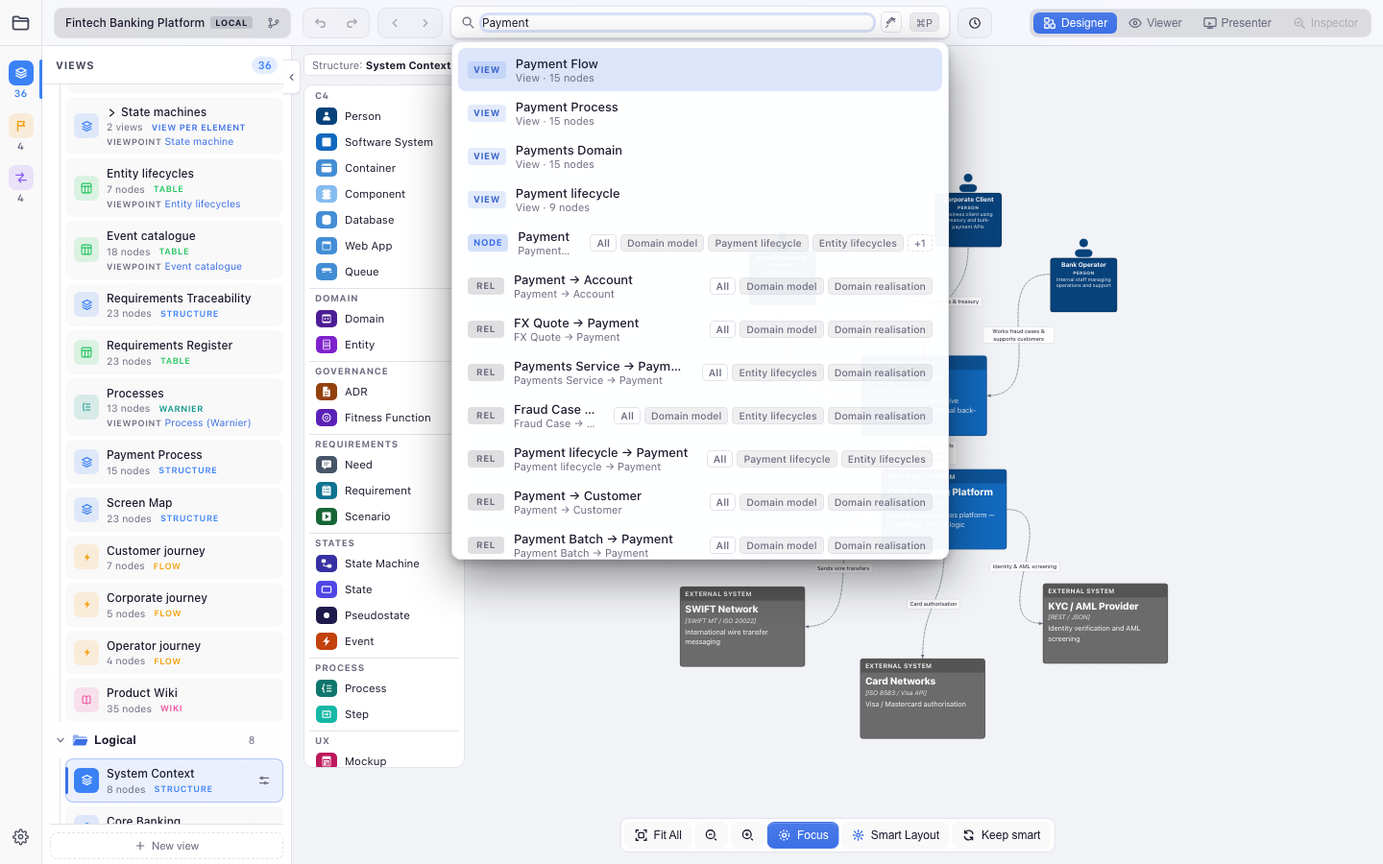
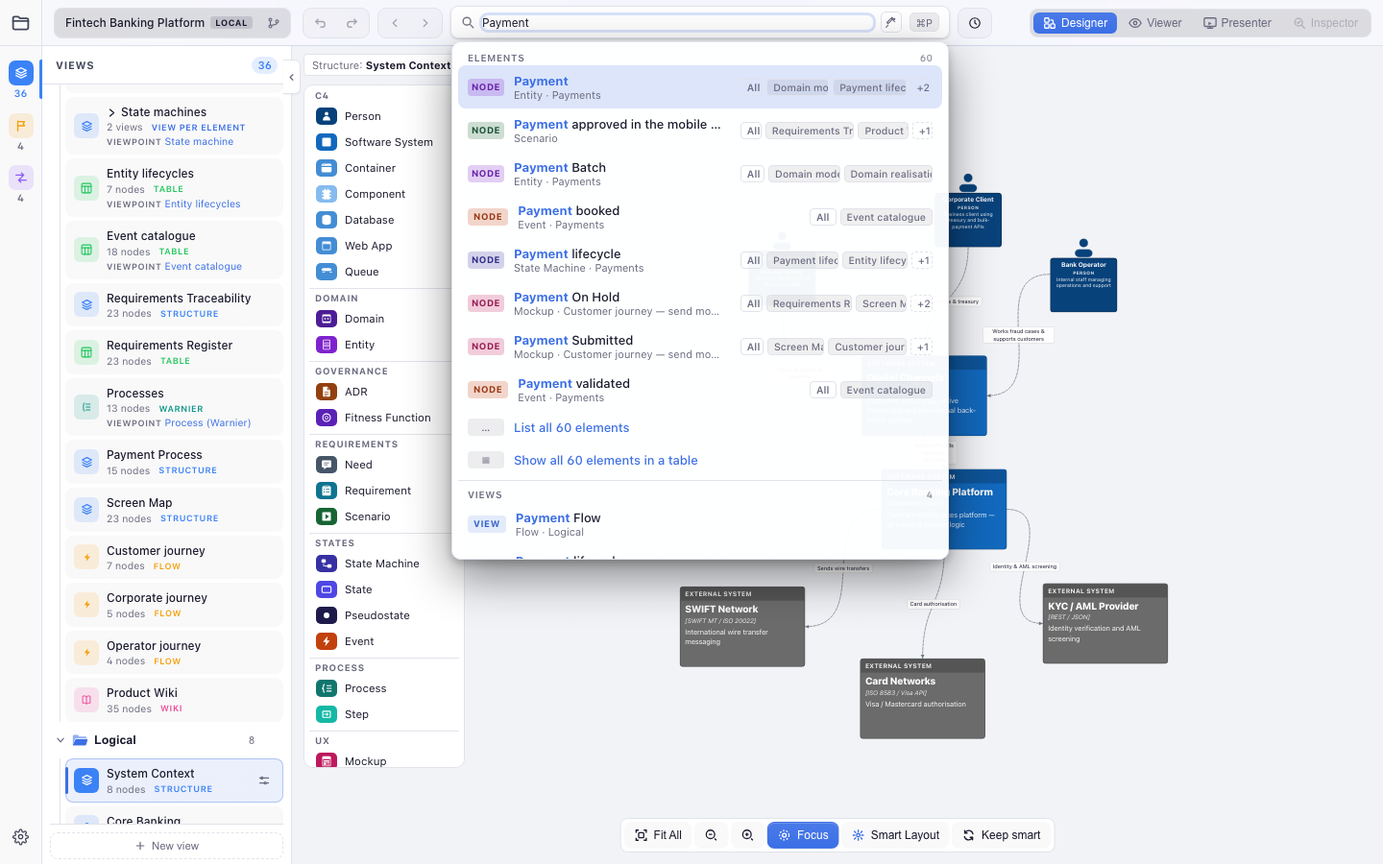
Docs: Quick Search sections and prefixes, find in the view, FIND; model texts as built

Changed region(s): [[0.3125, 0.0311, 0.6875, 0.6533], [0.5312, 0.1867, 0.6875, 0.2178], [0.5312, 0.6222, 0.6562, 0.6533]]

diff --git a/apps/web/reference.html b/apps/web/reference.html
@@ -414,7 +414,7 @@ radical-mcp --version</code></pre>
           <table class="doc-table">
             <thead><tr><th>Group</th><th>Tools</th></tr></thead>
             <tbody>
-              <tr><td><strong>Read</strong></td><td><code>get_model_summary</code> (counts, views, sequences, milestones, the modelling rules and the metamodel rules) · <code>get_issues</code> · <code>search_model</code> (<code>LIST NODES WHERE …</code>, <code>GET NEIGHBORS</code>, <code>LIST SEQUENCES</code>) · <code>get_selection</code> · <code>get_changes</code></td></tr>
+              <tr><td><strong>Read</strong></td><td><code>get_model_summary</code> (counts, views, sequences, milestones, the modelling rules and the metamodel rules) · <code>get_issues</code> · <code>search_model</code> (<code>FIND</code> with the words and prefixes of Quick Search, <code>LIST NODES WHERE …</code>, <code>GET NEIGHBORS</code>, <code>LIST SEQUENCES</code>) · <code>get_selection</code> · <code>get_changes</code></td></tr>
               <tr><td><strong>Elements &amp; relations</strong></td><td><code>add_node</code>, <code>update_node</code>, <code>delete_node</code>, <code>move_node</code> · <code>add_relation</code>, <code>update_relation</code>, <code>delete_relation</code></td></tr>
               <tr><td><strong>Views</strong></td><td><code>create_view</code>, <code>update_view</code>, <code>set_view_nodes</code>, <code>order_views</code>, <code>delete_view</code> · <code>smart_layout</code> · <code>align_nodes</code>, <code>grid_nodes</code>, <code>remove_alignment</code></td></tr>
               <tr><td><strong>Sequences &amp; slides</strong></td><td><code>create_sequence</code>, <code>update_sequence</code>, <code>delete_sequence</code> · <code>create_presentation</code>, <code>update_presentation</code>, <code>delete_presentation</code> (a slide shows a view or zooms onto elements with <code>focus</code>, from the model or a milestone)</td></tr>
@@ -500,14 +500,34 @@ radical-mcp --version</code></pre>
         <p>File and folder paths open only in the desktop app; in the browser a folder is identified by its id, so its links work in the browser that opened it. The Hub uses <code>#/browse</code> for the catalogue and <code>#/c/&lt;conceptId&gt;/v/canvas|wiki|table</code> for one pack; <code>studio.radical.tools/?hub=id1,id2</code> opens Studio with those packs queued for import.</p>
       </section>
 
+      <section class="doc-section" id="search">
+        <h2>Search prefixes</h2>
+        <p>Quick Search (<kbd>⌘/Ctrl+P</kbd>), the find bar (<kbd>⌘/Ctrl+F</kbd>) and the query language's <code>FIND</code> read the same words. Every word must match, in any order, without case or accents.</p>
+        <div class="doc-table-wrap">
+          <table class="doc-table">
+            <thead><tr><th>Typed</th><th>Finds</th></tr></thead>
+            <tbody>
+              <tr><td><code>v:</code> <code>f:</code> <code>e:</code> <code>r:</code></td><td>Only views, view folders, elements, relations</td></tr>
+              <tr><td><code>s:</code> <code>p:</code> <code>m:</code></td><td>Only sequences, presentations and their slides, milestones</td></tr>
+              <tr><td><code>@</code></td><td>The elements and relations of the view shown</td></tr>
+              <tr><td><code>in:Name</code> · <code>in:"Two words"</code></td><td>The elements and relations of a view, by its name or the start of it</td></tr>
+              <tr><td><code>type:adr</code> · <code>t:container</code></td><td>Elements of a type, by its id or name</td></tr>
+              <tr><td><code>status:accepted</code></td><td>Elements whose property (by key or name) holds the value</td></tr>
+              <tr><td><code>&gt;</code> first</td><td>Commands, in Quick Search only</td></tr>
+            </tbody>
+          </table>
+        </div>
+      </section>
+
       <section class="doc-section" id="shortcuts">
         <h2>Keyboard shortcuts</h2>
         <div class="doc-table-wrap">
           <table class="doc-table">
             <thead><tr><th>Keys</th><th>Action</th></tr></thead>
             <tbody>
-              <tr><td><kbd>⌘/Ctrl+P</kbd></td><td>Quick Search (and AI prompt)</td></tr>
-              <tr><td><kbd>Tab</kbd> / <kbd>⌘/Ctrl+Enter</kbd></td><td>In Quick Search: switch to AI mode / send to AI</td></tr>
+              <tr><td><kbd>⌘/Ctrl+P</kbd></td><td>Quick Search (and AI prompt); <kbd>&gt;</kbd> first lists the commands</td></tr>
+              <tr><td><kbd>Tab</kbd> / <kbd>⌘/Ctrl+Enter</kbd></td><td>In Quick Search: take the first suggestion, or on an empty box switch to AI mode / send to AI</td></tr>
+              <tr><td><kbd>⌘/Ctrl+F</kbd></td><td>Find in the view shown; <kbd>Enter</kbd> / <kbd>Shift+Enter</kbd> next / previous hit, <kbd>Esc</kbd> closes</td></tr>
               <tr><td><kbd>⌘/Ctrl+Z</kbd> · <kbd>⌘/Ctrl+⇧+Z</kbd></td><td>Undo · Redo (Designer)</td></tr>
               <tr><td>The special key: <kbd>Alt</kbd>/<kbd>⌥</kbd> (<em>Settings → Special key</em>)</td><td>Held with an element selected: mark where a relation from it, or nesting, can go</td></tr>
               <tr><td>Special key + drag from an element</td><td>Connect it (or the selected elements) to another, or nest them there, on a pill; to the empty canvas: take them out of their container (those the metamodel keeps there are named). One step for Undo; in Viewer and Presenter it only selects</td></tr>

diff --git a/apps/web/manual.html b/apps/web/manual.html
@@ -571,13 +571,25 @@
 
       <section class="doc-section" id="navigation">
         <h2>Search &amp; navigation</h2>
+        <p>Quick Search finds any place in the model by a few words: views and their folders, elements, relations, sequences, presentations with their slides, and milestones.</p>
         <figure class="doc-shot">
-          <img class="shot-light" src="screenshots/search-light.png?v=__BUILD__" alt="Quick Search open with the query Payment, listing matching views, nodes and relations with the views they appear in" loading="lazy" />
-          <img class="shot-dark" src="screenshots/search-dark.png?v=__BUILD__" alt="Quick Search open with the query Payment, listing matching views, nodes and relations with the views they appear in" loading="lazy" />
-          <figcaption><kbd>⌘/Ctrl+P</kbd> searches elements, relations and views. Each hit lists the views it appears in.</figcaption>
+          <img class="shot-light" src="screenshots/search-light.png?v=__BUILD__" alt="Quick Search open with the query Payment: hits in sections Views, Elements, Relations and more, each with its count, the matched part in bold" loading="lazy" />
+          <img class="shot-dark" src="screenshots/search-dark.png?v=__BUILD__" alt="Quick Search open with the query Payment: hits in sections Views, Elements, Relations and more, each with its count, the matched part in bold" loading="lazy" />
+          <figcaption><kbd>⌘/Ctrl+P</kbd> lists the hits in sections. Each element lists the views it appears in.</figcaption>
         </figure>
         <ul>
-          <li><strong>Quick Search</strong> is in the middle of the top bar on every view. Results are ranked across names, types, descriptions and technology. <kbd>Enter</kbd> selects the element on the view you are in, or on a view that shows it; <kbd>Shift+Enter</kbd> picks it in <em>All elements</em>. With an AI provider configured, <em>✨</em> turns the box into the <a href="#ai">assistant</a>.</li>
+          <li><strong>Quick Search</strong> is in the middle of the top bar on every view. Every word must match, in any order, without case or accents; <code>ps</code> finds <em>Payment Service</em> by its initials. A match in a description or property shows the words around it. <kbd>Enter</kbd> goes there: a view opens, an element is selected where a view shows it (<kbd>Shift+Enter</kbd> picks it in <em>All elements</em>), a slide opens in Presenter (<kbd>Shift+Enter</kbd> plays from it), a folder opens in the list of views. With an AI provider configured, <em>✨</em> turns the box into the <a href="#ai">assistant</a>.</li>
+          <li><strong>Prefixes</strong> narrow it: <code>v:</code> views, <code>f:</code> folders, <code>e:</code> elements, <code>r:</code> relations, <code>s:</code> sequences, <code>p:</code> presentations and slides, <code>m:</code> milestones; <code>@</code> the view shown, <code>in:</code> a view by name, <code>type:</code> a type, <code>status:accepted</code> a property's value. The box suggests what fits; <kbd>Tab</kbd> takes the first. See <a href="reference.html#search">the prefixes</a>.</li>
+          <li><strong>Nothing typed</strong>, it lists the places you visited last. <strong><code>&gt;</code></strong> lists the commands of the toolbar and the canvas.</li>
+          <li><strong>Show all in a table</strong> under the elements found opens <em>All elements</em> with only those rows.</li>
+        </ul>
+        <figure class="doc-shot">
+          <img class="shot-light" src="screenshots/find-light.png?v=__BUILD__" alt="The find bar over the Core Banking canvas with the word service: the elements found stand out, the rest is dimmed, the first hit selected" loading="lazy" />
+          <img class="shot-dark" src="screenshots/find-dark.png?v=__BUILD__" alt="The find bar over the Core Banking canvas with the word service: the elements found stand out, the rest is dimmed, the first hit selected" loading="lazy" />
+          <figcaption><kbd>⌘/Ctrl+F</kbd> finds in the view shown and dims the rest.</figcaption>
+        </figure>
+        <ul>
+          <li><strong>Find in the view</strong> (<kbd>⌘/Ctrl+F</kbd>) searches the elements of the view shown. A canvas dims the rest, a table its other rows; <kbd>Enter</kbd> and <kbd>Shift+Enter</kbd> go from one hit to the next. On a wiki it goes to the wiki's own search.</li>
           <li><strong>Back and Forward</strong> (<em>‹ ›</em> beside the search, <kbd>Alt+←</kbd> / <kbd>Alt+→</kbd>) walk the places you have been: views, perspectives, selected elements. The clock lists them.</li>
           <li><strong>From the card</strong>: the <em>Views</em> list at its foot opens any view that shows the element, with it selected and in sight.</li>
           <li><strong>Deep links</strong>: the URL always names the place on screen, so any view, element, milestone or slide can be bookmarked or shared. See <a href="reference.html#links">Deep links</a>.</li>

diff --git a/apps/studio/src/renderer/src/components/QuickSearch.tsx b/apps/studio/src/renderer/src/components/QuickSearch.tsx
@@ -327,7 +327,7 @@ export function QuickSearch(): React.ReactElement | null {
       const items: Item[] = list.slice(0, limit).map((hit) => ({ key: `${kind}:${hit.id}`, type: 'hit', hit }))
       if (list.length > limit && !narrowed) {
         const prefix = KIND_PREFIXES.find((p) => p.kinds.includes(kind))!.prefix
-        items.push({ key: `more:${kind}`, type: 'more', label: `Show all ${list.length} ${SECTION_TITLES[kind].toLowerCase()}`, query: `${prefix} ${q.trim()}` })
+        items.push({ key: `more:${kind}`, type: 'more', label: `List all ${list.length} ${SECTION_TITLES[kind].toLowerCase()}`, query: `${prefix} ${q.trim()}` })
       }
       if (kind === 'element' && list.length >= 2) items.push({ key: 'table', type: 'table', count: list.length })
       out.push({ id: kind, title: SECTION_TITLES[kind], count: list.length, items, best: scored(list[0]) })

diff --git a/apps/e2e/docs/studio.docs.ts b/apps/e2e/docs/studio.docs.ts
@@ -263,6 +263,16 @@ test('search', async ({ page, shot }) => {
   await shot('search')
 })
 
+test('find', async ({ page, shot }) => {
+  await open(page, 'view-core')
+  await page.locator('.react-flow__pane').click({ position: { x: 5, y: 5 } })
+  await page.keyboard.press('ControlOrMeta+f')
+  await page.keyboard.type('service')
+  await page.keyboard.press('Enter')
+  await page.waitForTimeout(900)
+  await shot('find')
+})
+
 test('milestones', async ({ page, shot }) => {
   await open(page, 'view-payments', 'designer', '/s/snap-v2')
   await page.getByRole('tab', { name: 'Milestones' }).click()

diff --git a/apps/studio/src/renderer/src/components/FindInView.tsx b/apps/studio/src/renderer/src/components/FindInView.tsx
@@ -106,6 +106,9 @@ export function FindInView(): React.ReactElement | null {
     showOnPage(s.activeViewId, id)
     s.setSelectedNodeIds([id])
     s.selectNode(id)
+    // With Focus on, the canvas frames the selection itself, moving only
+    // when the hit is out of sight.
+    if (s.selectionFocus) return
     requestAnimationFrame(() => {
       const focus = (window as unknown as { __rfFocusNode?: (id: string, opts?: { zoom?: number; duration?: number }) => void }).__rfFocusNode
       focus?.(id, { zoom: 1.1, duration: 400 })

diff --git a/architecture/nodes/logical-physical/radical-tools/shared-packages/radical-common.md b/architecture/nodes/logical-physical/radical-tools/shared-packages/radical-common.md
@@ -5,4 +5,4 @@ label: "@radical/common"
 technology: "TypeScript"
 ---
 
-The model shared by every app: C4 types, the two built-in metamodels (Radical and C4) with their validator, statechart and aggregate rules, EARS sentences and wizards, file formats (Markdown-folder sync with its format version MD_FOLDER_FORMAT_VERSION, Structurizr DSL import, Gherkin export, and the .radical/ editor-state formats for the canvas selection, the Forge run status, the agent's activity with its server's version and the model's base, formats/modelBase.ts), query language, the headless model facade, the AI tool catalogue and system prompt, the views a new model starts with (src/viewStructure.ts: metamodelViews makes a view of each chosen viewpoint in its folder, a group for one that draws one element), Radical Forge's stages, prompts, views and concern packs (src/ai/forge/concerns.ts: the packs offered in clarify, their questions, what later stages are told, the binding after C4), the Hub's concern packs (src/concerns.ts: CONCERN_GROUPS, triggers, where the model stands on each concern, the answers' variant, bind suggestions, the import bound to any number of elements, the standard a pack meets) and the concept import they rest on, radical check's rule catalogue with concern-unaddressed and concern-unbound, report readers and evidence (src/check), the model change report (src/modelChanges.ts: what changed between two versions of a model, layout left out, with old and new values, ancestors and relations) and the branch's changes in Studio (src/branchChanges.ts: marks and ghosts, the changes per view, the words that changed, and how far each changed requirement and ADR has got by the test report). The pure wiki document builder (src/wikiDocument.ts) supplies Studio and CLI exports with the same scope, hierarchy, fields, requirement prose, relationship groups and content blocks. The Radical metamodel's Process group (process and step with order, repeat, condition and how their children run; performed-by) and the Warnier tree (src/warnier.ts: warnierRows takes a view's chain, or its elements by containment, warnierTree orders siblings and reads repetition, alternatives and concurrency, a state machine's too) that the Warnier view draws. The product version at run time (src/version.ts: buildInfo reads the build's __RADICAL_BUILD__, displayVersion shows a release bare and any other build as <version>+<commit>, compareVersions orders versions by SemVer with build metadata left out). No UI or browser dependencies.
+The model shared by every app: C4 types, the two built-in metamodels (Radical and C4) with their validator, statechart and aggregate rules, EARS sentences and wizards, file formats (Markdown-folder sync with its format version MD_FOLDER_FORMAT_VERSION, Structurizr DSL import, Gherkin export, and the .radical/ editor-state formats for the canvas selection, the Forge run status, the agent's activity with its server's version and the model's base, formats/modelBase.ts), query language, the headless model facade, the AI tool catalogue and system prompt, the views a new model starts with (src/viewStructure.ts: metamodelViews makes a view of each chosen viewpoint in its folder, a group for one that draws one element), Radical Forge's stages, prompts, views and concern packs (src/ai/forge/concerns.ts: the packs offered in clarify, their questions, what later stages are told, the binding after C4), the Hub's concern packs (src/concerns.ts: CONCERN_GROUPS, triggers, where the model stands on each concern, the answers' variant, bind suggestions, the import bound to any number of elements, the standard a pack meets) and the concept import they rest on, radical check's rule catalogue with concern-unaddressed and concern-unbound, report readers and evidence (src/check), the model change report (src/modelChanges.ts: what changed between two versions of a model, layout left out, with old and new values, ancestors and relations) and the branch's changes in Studio (src/branchChanges.ts: marks and ghosts, the changes per view, the words that changed, and how far each changed requirement and ADR has got by the test report). The pure wiki document builder (src/wikiDocument.ts) supplies Studio and CLI exports with the same scope, hierarchy, fields, requirement prose, relationship groups and content blocks. The Radical metamodel's Process group (process and step with order, repeat, condition and how their children run; performed-by) and the Warnier tree (src/warnier.ts: warnierRows takes a view's chain, or its elements by containment, warnierTree orders siblings and reads repetition, alternatives and concurrency, a state machine's too) that the Warnier view draws. The product version at run time (src/version.ts: buildInfo reads the build's __RADICAL_BUILD__, displayVersion shows a release bare and any other build as <version>+<commit>, compareVersions orders versions by SemVer with build metadata left out). No UI or browser dependencies. The search of a model (src/search.ts: searchModel finds views, folders, elements, relations, sequences, presentations, slides and milestones by every word, without case or accents, by initials, with the prefixes v: f: e: r: s: p: m: @ in: type: and a property's value; searchSuggestions completes the word typed), used by Quick Search, the find bar and the query language's FIND.

diff --git a/architecture/nodes/logical-physical/radical-tools/studio/app-shell-and-routing.md b/architecture/nodes/logical-physical/radical-tools/studio/app-shell-and-routing.md
@@ -5,4 +5,4 @@ label: "App shell and routing"
 technology: "React 18, html-to-image"
 ---
 
-apps/studio/src/renderer/src: App.tsx (the layout grid: the activity rail, the left panel and the view), route.ts (the route names the place on screen in one form: document, perspective, view, Inspector tab, selected element or the Inspector's open card, wiki page, milestone, slide; a change of place pushes it onto the window's history, applying one replaces), navHistory.ts (the routes pushed, with labels and times, for the toolbar), Toolbar (grouped as VS Code: the Radical logo, which opens About Radical Studio — components/AboutDialog.tsx and about.ts show the version, commit and day of the build, where Studio runs and the model folder format, with Copy and a link to the changelog —; Undo and Redo in one group in Designer; in every perspective Back and Forward just before Quick Search and History just after it, components/NavHistory.tsx, with Alt+← / Alt+→, ⌘[ / ⌘] and the desktop app's mouse side buttons; on the right Changes on branch in every perspective but the Inspector, beside the perspective switch; and, put at the foot of the activity rail, the menus Models, Metamodel editor, AI, Export and Settings that the Radical menu held: AppMenu, RailMenu), Welcome screen, Quick Search, selection and edge action bars, PNG/SVG export and copy to clipboard (hooks/useExport.ts), components/BranchChanges.tsx (the Changes on branch toggle: a small button with an icon and the number of changed elements, marked when the base is old, its name and what the count is about in a tooltip on hover, and, without a base, the commands that save one). Keeps the hash route (#/d/<doc>/m/<mode>/v/<view>/…) in step with the open document and view.
+apps/studio/src/renderer/src: App.tsx (the layout grid: the activity rail, the left panel and the view), route.ts (the route names the place on screen in one form: document, perspective, view, Inspector tab, selected element or the Inspector's open card, wiki page, milestone, slide; a change of place pushes it onto the window's history, applying one replaces), navHistory.ts (the routes pushed, with labels and times, for the toolbar), Toolbar (grouped as VS Code: the Radical logo, which opens About Radical Studio — components/AboutDialog.tsx and about.ts show the version, commit and day of the build, where Studio runs and the model folder format, with Copy and a link to the changelog —; Undo and Redo in one group in Designer; in every perspective Back and Forward just before Quick Search and History just after it, components/NavHistory.tsx, with Alt+← / Alt+→, ⌘[ / ⌘] and the desktop app's mouse side buttons; on the right Changes on branch in every perspective but the Inspector, beside the perspective switch; and, put at the foot of the activity rail, the menus Models, Metamodel editor, AI, Export and Settings that the Radical menu held: AppMenu, RailMenu), Welcome screen, Quick Search, selection and edge action bars, PNG/SVG export and copy to clipboard (hooks/useExport.ts), components/BranchChanges.tsx (the Changes on branch toggle: a small button with an icon and the number of changed elements, marked when the base is old, its name and what the count is about in a tooltip on hover, and, without a base, the commands that save one). Keeps the hash route (#/d/<doc>/m/<mode>/v/<view>/…) in step with the open document and view. Quick Search (components/QuickSearch.tsx) lists the hits of @radical/common's search in sections, the places visited last when nothing is typed, the suggestions of prefixes, and with > the commands that the toolbar, the rail and the find bar register (commands.ts); components/FindInView.tsx is the find bar over the view shown (Cmd/Ctrl+F).

diff --git a/CHANGELOG.md b/CHANGELOG.md
@@ -8,6 +8,11 @@ and this project adheres to [Semantic Versioning](https://semver.org/spec/v2.0.0
 ## [Unreleased]
 
 ### Added
+- Quick Search finds every kind of place: views (by name, folder, viewpoint and type), view folders, elements (also by property values), relations, sequences, presentations and their slides, and milestones, in sections with their counts. Every word must match, in any order, without case or accents, initials too (`ps` → Payment Service); the matched part is in bold and a match in a description shows the words around it. A slide opens in Presenter (Shift+Enter plays from it), a sequence its flow view, a folder in the list of views
+- Search prefixes: `v:` `f:` `e:` `r:` `s:` `p:` `m:` for one kind, `@` the view shown, `in:` a view by name, `type:` a type, `status:accepted` a property's value; the box suggests prefixes, views, types and values, Tab takes the first
+- Quick Search with nothing typed lists the places visited last; `>` lists the commands of the toolbar, the rail and the canvas; *Show all in a table* opens All elements with only the elements found
+- Find in the view (⌘/Ctrl+F): a bar over the view finds its elements, dims the rest on a canvas and the other rows on a table, steps through the hits with Enter and Shift+Enter
+- `search_model` takes `FIND <words>` with the same words and prefixes, for agents and the AI assistant
 - *Keep smart* beside Smart Layout and in a view's properties: after each change to what the view shows (an element or relation added or removed, a move into another container, a fold, a drop), yours or an agent's, Smart Layout tidies the whole view and the elements glide to their new places; dropped elements stay pinned and the rest is arranged round them; an element dropped from the palette stays where it lands this once, a later change may move it. Saved with the view; agents set it with `continuousLayout` in `create_view` / `update_view`. Undo takes back a change with the tidying it brought
 - An element dropped from the palette into a container stays where you drop it when there is room for it there; over another element, the header or the frame's edge it still goes to the next cell of the container's grid
 - Start or reopen node discussions from table rows and wiki pages, headings, navigation entries and node references. All views share the graph's threads and drafts; Viewer can discuss without enabling model edits, and text editors keep their native context menus.

diff --git a/architecture/nodes/logical-physical/radical-tools/studio/canvas.md b/architecture/nodes/logical-physical/radical-tools/studio/canvas.md
@@ -5,4 +5,4 @@ label: "Canvas"
 technology: "ReactFlow 11 (@radical/ui)"
 ---
 
-packages/ui/src/components/Canvas.tsx, ElementPalette.tsx, propertiesCover.ts, nodes/C4Nodes.tsx, edges/RelationEdge.tsx. The interactive editor for C4 and governance elements and their relations, with routed edges and mockup wireframes, and in Designer the Elements palette down its left side; its camera fits and frames in the part the palette and the properties card leave free. A process is a frame of its steps, a step a card that holds the steps inside it, with its repetition and condition under its name in Warnier–Orr notation ((0,1) under an alternative) and ⊕ or + in the header of one whose steps are a choice or concurrent (ProcessNode, StepNode); dashed arrows lead from each step to the next of a sequence (processFlow, drawn, not stored, not clickable). An element of a type with no drawing of its own, one made in the metamodel editor, is a card in its type's colours with the type's name, or a frame while it holds elements (GenericNode, React Flow's default node type).
+packages/ui/src/components/Canvas.tsx, ElementPalette.tsx, propertiesCover.ts, nodes/C4Nodes.tsx, edges/RelationEdge.tsx. The interactive editor for C4 and governance elements and their relations, with routed edges and mockup wireframes, and in Designer the Elements palette down its left side; its camera fits and frames in the part the palette and the properties card leave free. A process is a frame of its steps, a step a card that holds the steps inside it, with its repetition and condition under its name in Warnier–Orr notation ((0,1) under an alternative) and ⊕ or + in the header of one whose steps are a choice or concurrent (ProcessNode, StepNode); dashed arrows lead from each step to the next of a sequence (processFlow, drawn, not stored, not clickable). An element of a type with no drawing of its own, one made in the metamodel editor, is a card in its type's colours with the type's name, or a frame while it holds elements (GenericNode, React Flow's default node type). While find in the view is open, its hits and the containers they are in stay as drawn and the rest is dimmed (store/canvasFocus.ts, findFocus).

diff --git a/architecture/nodes/conceptual/modelling/find-in-a-view.md b/architecture/nodes/conceptual/modelling/find-in-a-view.md
@@ -2,10 +2,10 @@
 id: "c8628aca-fcef-4e06-835f-352a3c8d85be"
 type: "scenario"
 label: "Find in a view"
-given: "a canvas with three elements named Order something and others"
+given: "the bookstore's Containers view, where Orders DB says orders by its name and the API and the customer by their descriptions"
 tests: |
   apps/e2e/tests/studio/find.spec.ts › Cmd+F finds in the view: the rest dimmed, Enter and Shift+Enter step through the hits
   apps/e2e/tests/studio/find.spec.ts › Cmd+F on a table dims the rows not found, and on a wiki goes to its search box
-then: "the bar counts 3, the other elements are dimmed, each Enter selects the next hit and Shift+Enter the one before; Escape closes the bar with the hit selected; on a table the rows not found are dimmed, and on a wiki Cmd/Ctrl+F goes to its search box"
-when: "the user presses Cmd/Ctrl+F, types order, presses Enter twice and Shift+Enter, then Escape"
+then: "the bar says 3 found and then 1 of 3, 2 of 3, 1 of 3, selecting Orders DB first; the web app and the payment provider are dimmed, the bookstore holding hits is not; Escape closes the bar with Orders DB selected; on a table the rows found are marked, the others dimmed or, with Only the rows found, left out; on a wiki Cmd/Ctrl+F goes to its search box"
+when: "the user presses Cmd/Ctrl+F, types orders, presses Enter twice and Shift+Enter, then Escape"
 ---

diff --git a/architecture/nodes/conceptual/modelling/search-finds-every-kind.md b/architecture/nodes/conceptual/modelling/search-finds-every-kind.md
@@ -2,10 +2,10 @@
 id: "80569cee-16e8-484d-895f-558faa6d353f"
 type: "scenario"
 label: "Search finds every kind"
-given: "a model with views in a folder, a sequence, a presentation with slides and a milestone that share a word"
+given: "the bookstore with its views in the folders Order area and Order area/Inside, the sequence Place Order, a slide Order flow and a milestone Order rework"
 tests: |
   apps/e2e/tests/studio/search.spec.ts › Quick Search finds views, folders, sequences, slides and milestones, in sections
   apps/e2e/tests/studio/search.spec.ts › a folder pick shows it open in the list of views
-then: "the hits are listed in the sections Views, Folders, Elements, Sequences, Presentations and Milestones with their counts; the folder's pick opens the list of views on it, unfolded"
-when: "the user types the word in Quick Search, and then picks the folder"
+then: "the sections Views (3, found by name or folder), Folders, Elements, Sequences, Slides and Milestones list them with the matched part marked; the sequence opens its flow view, the milestone is shown, and the folder opens in the list of views, unfolded and marked"
+when: "the user types order in Quick Search and picks the sequence, then m: rework, and later f: inside with Order area folded"
 ---

diff --git a/architecture/nodes/logical-physical/radical-tools/studio/wiki-and-table-views.md b/architecture/nodes/logical-physical/radical-tools/studio/wiki-and-table-views.md
@@ -5,4 +5,4 @@ label: "Wiki and table views"
 technology: "React (@radical/ui)"
 ---
 
-packages/ui/src/components/WikiView.tsx and TableView.tsx. The wiki renders the shared @radical/common/wikiDocument projection: view scope and hierarchy, one page per element, lead/facts/sections, requirement sentences and relationship groups. React supplies editing, navigation and rendering; the CLI export uses the same pure content builder. The table shows the view's chain or containment as a tree of names, whose rows open properties or a wizard and add elements along the chain (packages/common/src/viewPipeline.ts).
+packages/ui/src/components/WikiView.tsx and TableView.tsx. The wiki renders the shared @radical/common/wikiDocument projection: view scope and hierarchy, one page per element, lead/facts/sections, requirement sentences and relationship groups. React supplies editing, navigation and rendering; the CLI export uses the same pure content builder. The table shows the view's chain or containment as a tree of names, whose rows open properties or a wizard and add elements along the chain (packages/common/src/viewPipeline.ts). While find in the view is open, the table marks the rows found and dims the others, or shows only those and the rows they are under.
